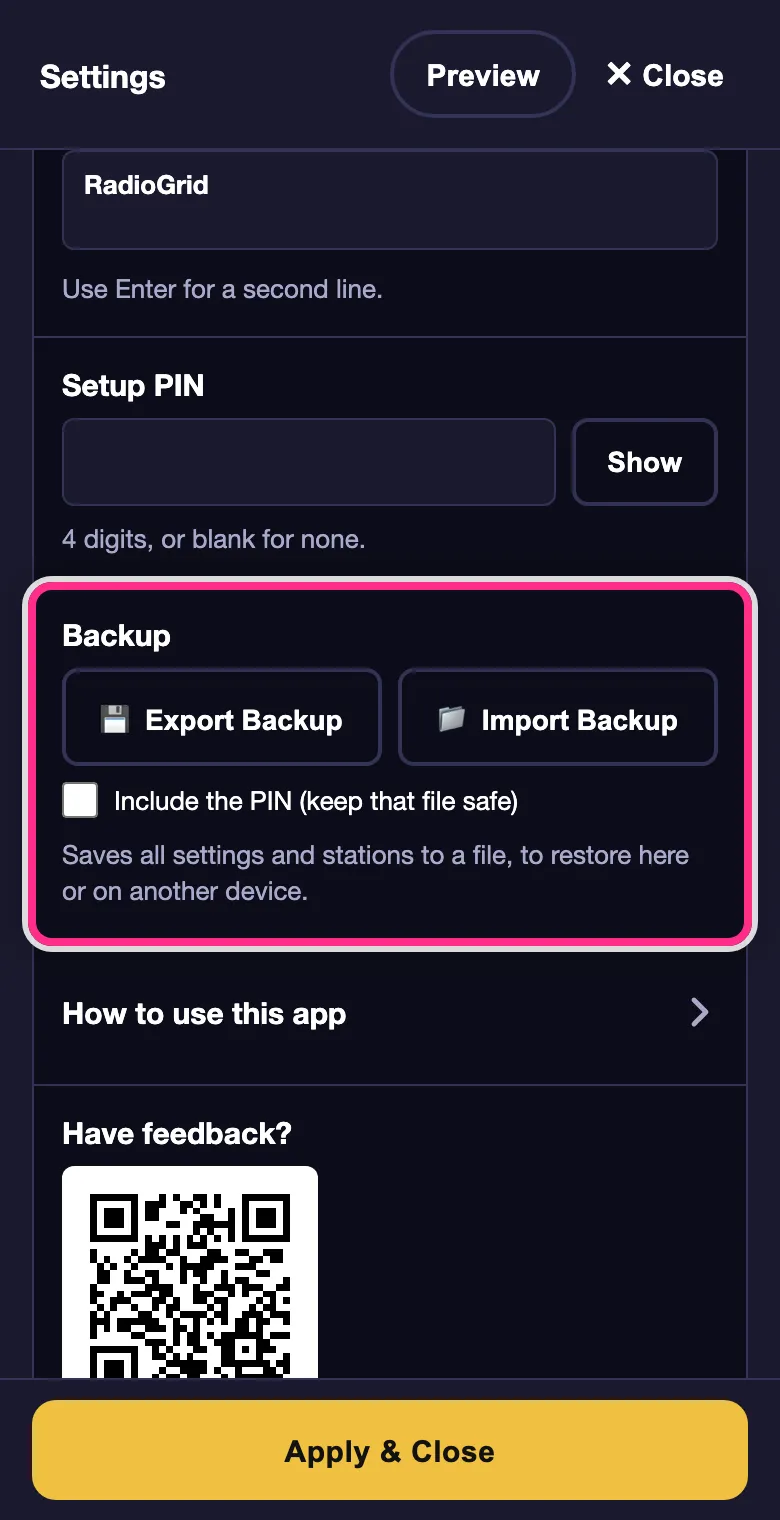
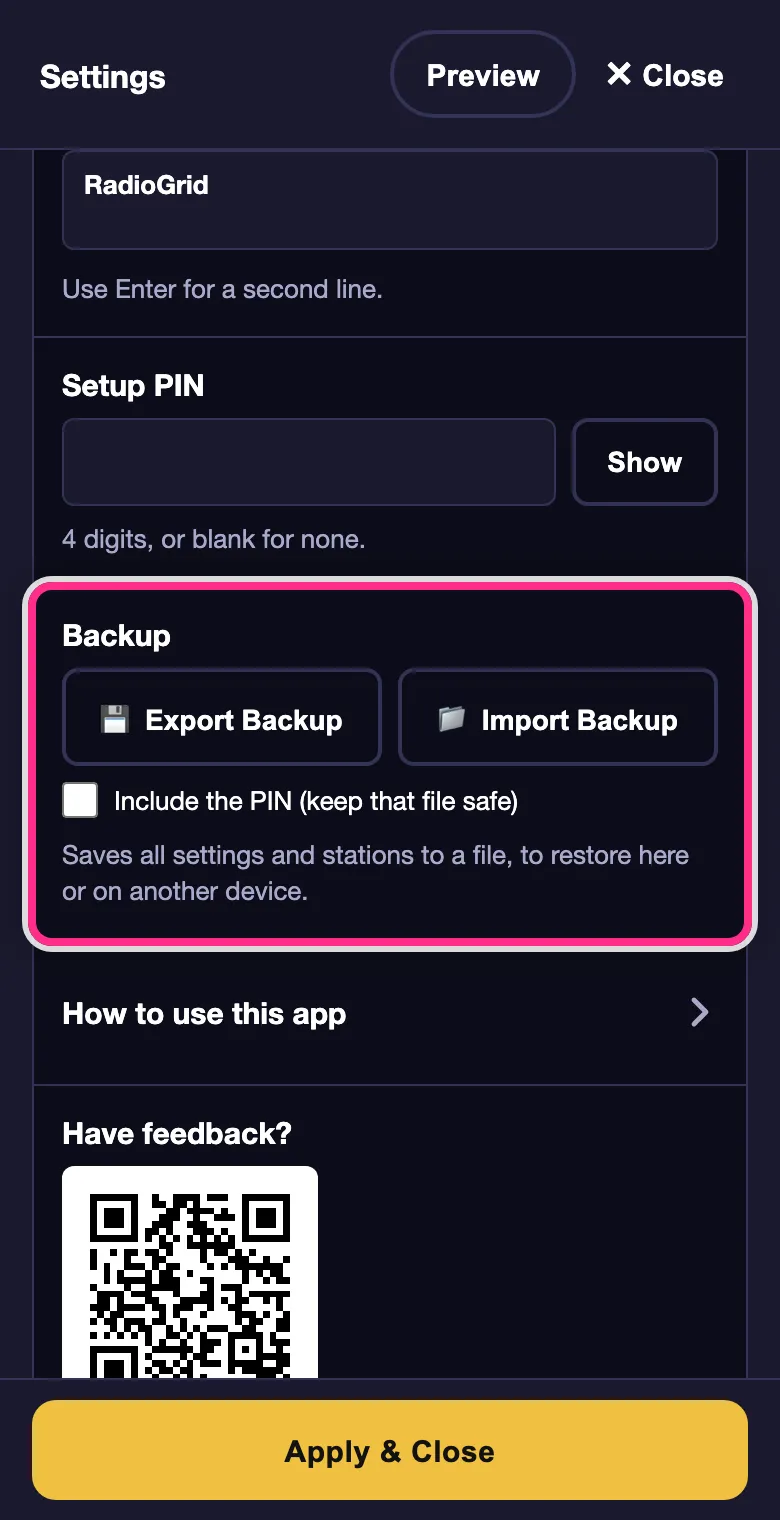
chore: RadioGrid v7.25.0
The release that moves the web home to radio.marshworks.dev. The guide
names the new address as the one RadioGrid runs on, and gains a short
section for a radio that says it has moved: the same steps as the card,
Export Backup at the old address, Import Backup at the new one.
Screenshots retaken at the new version.

Changed region(s): [[0.0923, 0.773, 0.3692, 0.9276]]

diff --git a/RadioGridXL.html b/RadioGridXL.html
@@ -3211,7 +3211,7 @@ html.theme-fading, html.theme-fading * {
         </div>
       </div>
       <button id="reset-btn" onclick="confirmReset()">Reset to Defaults</button>
-      <div id="settings-version">RadioGrid v7.24.1</div>
+      <div id="settings-version">RadioGrid v7.25.0</div>
       <!-- Who made it, from PROFILE.madeBy; never a link (promise-stays-radio).
            MarshWorks gets the brand kit's "made by" block; any other maker,
            and the MonoRadio and High Contrast themes, get the plain text line. -->

diff --git a/src/shell.html b/src/shell.html
@@ -419,7 +419,7 @@
         </div>
       </div>
       <button id="reset-btn" onclick="confirmReset()">Reset to Defaults</button>
-      <div id="settings-version">RadioGrid v7.24.1</div>
+      <div id="settings-version">RadioGrid v7.25.0</div>
       <!-- Who made it, from PROFILE.madeBy; never a link (promise-stays-radio).
            MarshWorks gets the brand kit's "made by" block; any other maker,
            and the MonoRadio and High Contrast themes, get the plain text line. -->

diff --git a/sw.js b/sw.js
@@ -5,7 +5,7 @@
    it sat at v1 from 7.5.0). Keep it in lockstep with the version-bump routine.
    The server sends sw.js no-cache, so each load refetches this file and the
    install→activate purge cycle kicks in. */
-const CACHE_VERSION = 'rgxl-shell-7.24.1';
+const CACHE_VERSION = 'rgxl-shell-7.25.0';
 
 /* Shell assets, relative to the SW scope (the directory it's served from).
    start_url is "." so the HTML is reachable both as "./" and by filename.

diff --git a/guide/guide.md b/guide/guide.md
@@ -1,12 +1,12 @@
 ---
 title: How to use RadioGrid
 description: Open settings, change and add stations, pick a theme, and set it up for someone who just wants to press a button and hear music.
-appVersion: 7.24.1
+appVersion: 7.25.0
 ---
 
 RadioGrid is built for the person listening: big buttons, one per station, nothing else to figure out. Everything you can change is tucked away in a hidden settings panel, so the listener never lands there by accident.
 
-**RadioGrid saves your stations and settings inside the web browser you're using, on this device only.** Nothing is sent anywhere, and there's no account. If you open RadioGrid on another phone or computer, or in a different browser, it starts fresh with its two starting stations. The same happens if you clear your browser's saved data for marsh.city, the website RadioGrid runs on. To move a setup between devices, use [Backup and restore](#backup-and-restore). On iPhone and iPad, the Home Screen app counts as a different browser, so [add it to your Home Screen](#install-it-as-an-app) before you set it up.
+**RadioGrid saves your stations and settings inside the web browser you're using, on this device only.** Nothing is sent anywhere, and there's no account. If you open RadioGrid on another phone or computer, or in a different browser, it starts fresh with its two starting stations. The same happens if you clear your browser's saved data for radio.marshworks.dev, the website RadioGrid runs on. To move a setup between devices, use [Backup and restore](#backup-and-restore). On iPhone and iPad, the Home Screen app counts as a different browser, so [add it to your Home Screen](#install-it-as-an-app) before you set it up.
 
 ## Listening
 
@@ -168,7 +168,7 @@ Under **Buttons while playing**, in **Sound and controls**:
 
 To keep anyone else out of settings, type a 4-digit PIN in **Setup PIN**, under **Setup**, and tap **Apply & Close**. From then on, opening settings brings up the keypad. To remove the PIN, clear the field and apply.
 
-Write the PIN down somewhere. If you forget it, the only way back into settings is to clear your browser's saved data for marsh.city, which also erases your RadioGrid stations and settings.
+Write the PIN down somewhere. If you forget it, the only way back into settings is to clear your browser's saved data for radio.marshworks.dev, which also erases your RadioGrid stations and settings.
 
 ## Hide the Settings button
 
@@ -194,6 +194,16 @@ A radio that was set up before the Settings button existed keeps its settings be
 - **Import Backup** loads a backup file, on this device or another one.
 
 The PIN is only included if you tick **Include the PIN**. Anyone with that file could get into settings, so keep it somewhere safe.
+
+### If your radio says it has moved
+
+RadioGrid used to live at marsh.city/radio. It now lives at **radio.marshworks.dev**. A radio set up at the old address shows "This radio has moved" instead of its stations, and no longer plays. Your stations are still saved there, and the browser keeps each address's settings apart, so you carry them across yourself:
+
+1. On the radio, open settings. The PIN still works if you set one.
+2. Tap **Export Backup** in the "This radio has moved" card. Tick **Include the PIN** under Backup first if you want it too.
+3. On the same device, open radio.marshworks.dev in the web browser.
+4. Open settings there, tap **Import Backup** and pick the file.
+5. [Add it to your Home Screen](#install-it-as-an-app), and remove the old one.
 
 ## Install it as an app
 

diff --git a/CLAUDE.md b/CLAUDE.md
@@ -17,7 +17,7 @@ RadioGrid is a radio for people who can't run a normal app: someone sets it up o
   - **Promises**: `PROMISES.md` lists what the app promises its users; each line names its check. `tests/promises.test.mjs` runs every check against a throwaway copy with each breaker in `tests/promise-breakers.mjs` applied, and fails if any breaker gets through. The Chromium checks (`promise-no-egress`, `promise-reduced-motion`, the rendered half of `contrast`) share one walk of every screen, `walkEverything()` in `tests/browser-harness.mjs`: a new screen or dialog goes there. They need `npx playwright install chromium` and the sandbox off
   - `npm run test:dom` — behavioral tests (`node:test` + jsdom) for the persistence / validation / PIN logic, run against the real app in a DOM. Dev dependencies: jsdom (tests) and Playwright (guide screenshots, and the real-Chromium promise checks). jsdom has no layout engine, so `tests/layout.test.mjs` checks `renderButtons`' sizing arithmetic on stubbed element sizes only; how text actually wraps and clips is verified on a real screen.
 - **Scheduled checks** (GitHub Actions, read-only, failures email): `live.yml` runs `smoke-live.mjs` against radio.marshworks.dev daily; `shelves.yml` runs `check-shelves.mjs` on Mondays. Node is pinned in `.nvmrc` for CI and local runs alike; the smoke test fails on a mismatch, so after a Node upgrade bump `.nvmrc`
-- **Version**: v7.24.1 (shown in settings footer, `#settings-version` in `src/shell.html`)
+- **Version**: v7.25.0 (shown in settings footer, `#settings-version` in `src/shell.html`)
 
 ## Architecture
 
